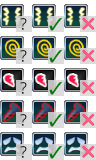
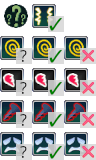
Support "special" weakness

Changed region(s): [[0.0, 0.0, 0.3438, 0.2188], [0.6562, 0.0, 1.0, 0.2188]]

diff --git a/StatusEffectWeaknessDisplay.js b/StatusEffectWeaknessDisplay.js
@@ -40,6 +40,7 @@ const SEWD = {};
       { id: 13, iconLine: 2 }, // Wound
       { id: 14, iconLine: 3 }, // Damaged
       { id: 15, iconLine: 4 }, // Afflicted
+      { id: 22, iconLine: 0, displayOnlyIfVulnerable: true }, // Pushed
     ],
   };
 
@@ -83,23 +84,25 @@ const SEWD = {};
   };
 
   /* Displaying the info in combat */
-  const alias_Sprite_Enemy_initMembers = Sprite_Enemy.prototype.initMembers;
-  Sprite_Enemy.prototype.initMembers = function () {
-    alias_Sprite_Enemy_initMembers.call(this);
+  const alias_Sprite_Enemy_initialize = Sprite_Enemy.prototype.initialize;
+  Sprite_Enemy.prototype.initialize = function (battler) {
+    alias_Sprite_Enemy_initialize.call(this, battler);
 
     this._stateResistanceIcons = [];
+
+    let visibleStateIndexes = [];
     for (let i = 0; i < statesToTrack.length; i++) {
-      const icon = new Sprite_StateResistanceIcon(i);
+      if (config.states[i].displayOnlyIfVulnerable && battler.stateRate(config.states[i].id) === 0) {
+        continue;
+      }
+
+      visibleStateIndexes.push(i);
+    }
+
+    visibleStateIndexes.forEach((i) => {
+      const icon = new Sprite_StateResistanceIcon(battler, i, visibleStateIndexes.length);
       this._stateResistanceIcons.push(icon);
       this.addChild(icon);
-    }
-  };
-
-  const alias_Sprite_Enemy_setBattler = Sprite_Enemy.prototype.setBattler;
-  Sprite_Enemy.prototype.setBattler = function (battler) {
-    alias_Sprite_Enemy_setBattler.call(this, battler);
-    this._stateResistanceIcons.forEach((icon) => {
-      icon.setup(battler);
     });
   };
 
@@ -110,23 +113,19 @@ const SEWD = {};
   Sprite_StateResistanceIcon.prototype = Object.create(Sprite.prototype);
   Sprite_StateResistanceIcon.prototype.constructor = Sprite_StateResistanceIcon;
 
-  Sprite_StateResistanceIcon.prototype.initialize = function (index) {
+  Sprite_StateResistanceIcon.prototype.initialize = function (enemy, index, total) {
     Sprite.prototype.initialize.call(this);
 
-    this._enemy = null;
+    this._enemy = enemy;
     this._index = index;
     this._resistance = null;
 
     this.anchor.x = 0.5;
     this.anchor.y = 0.5;
 
-    this.x = -(config.icon.size * statesToTrack.length) / 2 + index * config.icon.size + config.icon.size / 2;
+    this.x = -(config.icon.size * total) / 2 + index * config.icon.size + config.icon.size / 2;
 
     this.bitmap = ImageManager.loadBitmap(config.icon.file.folder, config.icon.file.name);
-  };
-
-  Sprite_StateResistanceIcon.prototype.setup = function (enemy) {
-    this._enemy = enemy;
   };
 
   Sprite_StateResistanceIcon.prototype.update = function () {

diff --git a/README.md b/README.md
@@ -17,3 +17,7 @@ Additional extensions to be excluded on deployment:
 ```
 xcf
 ```
+
+## Credits
+
+[Ocean's Dream](https://forums.rpgmakerweb.com/threads/oceans-nostalgia-resources.134943/) for the ??? icon.
